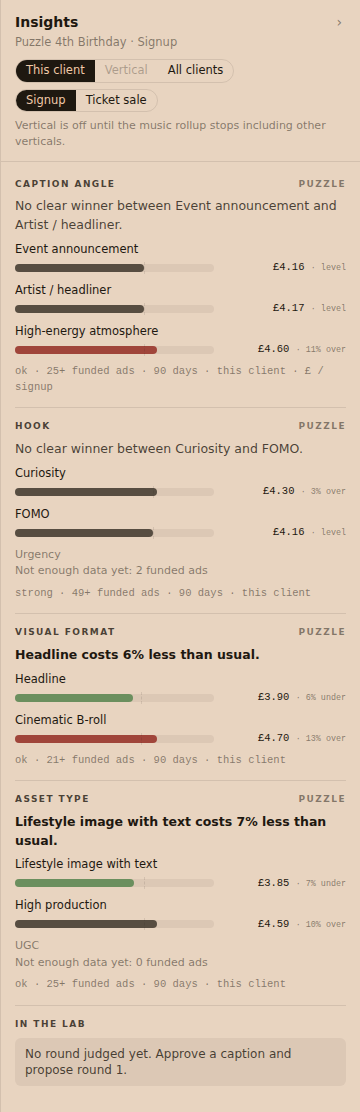
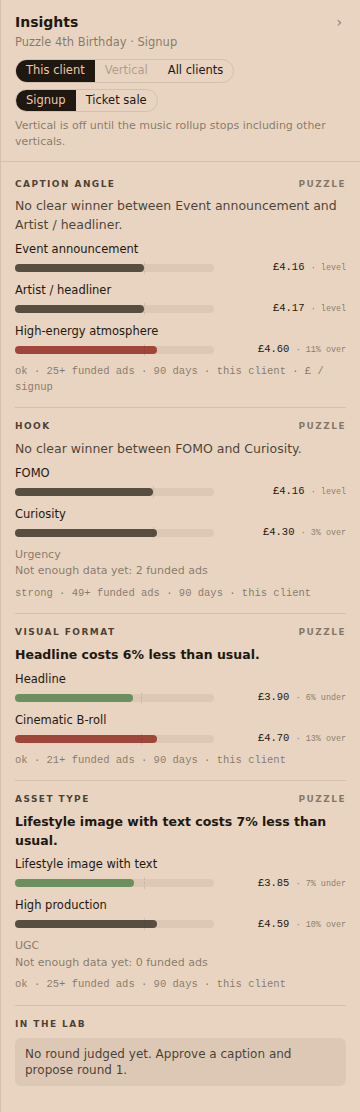
Design verdict item 4: Curiosity's IR3 stand-in index agrees with its cpr
Issue 1's IR3 table printed Curiosity at shrunk 0.98 against a cpr 3%
over baseline, and the fixture copied it, so R13 drew Curiosity above
FOMO: cheapest-first inverted on screen. A stand-in index must agree
with its own cpr, so the raw 4.30 ÷ 4.16 (1.03) stands in and FOMO draws
first again. IR3-1280 and IR6-1280 return to main's baselines; IR8
re-shot with its hook block FOMO-first. README IR sources row says why;
rail-sources.test.ts keeps guarding it. The gender thin threshold (under
1,000 impressions) gains its test.

Changed region(s): [[0.4889, 0.3975, 0.8861, 0.4892], [0.0611, 0.4586, 0.1833, 0.4892], [0.0611, 0.3975, 0.1833, 0.4281]]

diff --git a/lib/insights-rail/__tests__/model.test.ts b/lib/insights-rail/__tests__/model.test.ts
@@ -59,7 +59,7 @@ const IR3: TagRow[] = [
   row("asset_type", "high_production", 4.59, 4.16, 1.07, "ok", 30),
   row("asset_type", "ugc", null, 4.16, null, "thin", 0),
   row("hook_tactic", "fomo", 4.16, 4.16, 1.0, "strong", 49),
-  row("hook_tactic", "curiosity", 4.3, 4.16, 0.98, "strong", 52),
+  row("hook_tactic", "curiosity", 4.3, 4.16, 1.03, "strong", 52),
   row("hook_tactic", "urgency", 5.1, 4.16, 1.0, "thin", 2),
 ];
 
@@ -112,9 +112,9 @@ describe("insights rail model", () => {
     ]);
     assert.equal(angle!.confidence, "ok · 25+ funded ads · 90 days · this client · £ / signup");
     assert.equal(angle!.action, null);
-    // R13: rows sort by stored shrunk index, so Curiosity (0.98) draws before FOMO (1.0).
-    assert.equal(hook!.result?.text, "No clear winner between Curiosity and FOMO.");
-    assert.deepEqual(hook!.bars.map((bar) => bar.label), ["Curiosity", "FOMO"]);
+    // R13: rows sort by stored shrunk index; FOMO (1.0) draws before Curiosity (1.03, the raw stand-in).
+    assert.equal(hook!.result?.text, "No clear winner between FOMO and Curiosity.");
+    assert.deepEqual(hook!.bars.map((bar) => bar.label), ["FOMO", "Curiosity"]);
     assert.deepEqual(hook!.thin, [{ key: "urgency", label: "Urgency", fundedAds: 2 }]);
     assert.equal(hook!.confidence, "strong · 49+ funded ads · 90 days · this client");
     assert.equal(visual!.result?.text, "Headline costs 6% less than usual.");
@@ -332,6 +332,20 @@ describe("insights rail model", () => {
     assert.equal(cheap.result?.text, "18–24 costs 33% less than usual.");
     assert.deepEqual(cheap.bars.map((bar) => [bar.note, bar.tone]), [["33% under", "olive"], ["33% over", "brick"]]);
     assert.equal(buildTikTokSections([], "Puzzle")[0]!.empty, "Not enough data yet: no TikTok breakdowns for Puzzle in the last 90 days.");
+    // A gender row under 1,000 impressions is thin; the blended figure still counts it.
+    const thinGender = buildTikTokSections([
+      { dimension: "gender", value: "FEMALE", spend: 50, clicks: 100, impressions: 20000, views2s: 2000 },
+      { dimension: "gender", value: "MALE", spend: 2, clicks: 3, impressions: 999, views2s: 150 },
+    ], "Puzzle")[1]!;
+    assert.deepEqual(thinGender.bars.map((bar) => bar.label), ["Women"]);
+    assert.deepEqual(thinGender.thin, [{ key: "MALE", label: "Men", fundedAds: 999, line: "Not enough data yet: 999 impressions" }]);
+    assert.equal(thinGender.confidence, "ok · 2-s views ÷ impressions · 20,999 impressions · 90 days · Puzzle · TikTok");
+    const okGender = buildTikTokSections([
+      { dimension: "gender", value: "FEMALE", spend: 50, clicks: 100, impressions: 20000, views2s: 2000 },
+      { dimension: "gender", value: "MALE", spend: 2, clicks: 3, impressions: 1000, views2s: 150 },
+    ], "Puzzle")[1]!;
+    assert.deepEqual(okGender.bars.map((bar) => bar.label), ["Men", "Women"]);
+    assert.equal(okGender.thin.length, 0);
     assert.equal(tiktokAgeLabel("AGE_55_100"), "55–100");
     assert.equal(tiktokAgeLabel("AGE_55+"), "55+");
     assert.equal(tiktokGenderLabel("FEMALE"), "Women");

diff --git a/lib/plan/__tests__/rail-frames.test.ts b/lib/plan/__tests__/rail-frames.test.ts
@@ -109,8 +109,9 @@ describe("Insights rail frame catalog (IR)", () => {
     assert.equal(angle!.scopeLabel, "Puzzle");
     assert.equal(angle!.fallback, null);
     assert.equal(angle!.result?.text, "No clear winner between Event announcement and Artist / headliner.");
-    // R13 sorts by stored shrunk index, so Curiosity (0.98) draws before FOMO (1.0).
-    assert.equal(hook!.result?.text, "No clear winner between Curiosity and FOMO.");
+    // R13 sorts by stored shrunk index; Curiosity's stand-in is the raw 1.03, so FOMO (1.0) draws first.
+    assert.equal(hook!.result?.text, "No clear winner between FOMO and Curiosity.");
+    assert.deepEqual(hook!.bars.map((bar) => [bar.label, bar.note]), [["FOMO", "level"], ["Curiosity", "3% over"]]);
     assert.deepEqual(hook!.thin.map((row) => [row.label, row.fundedAds]), [["Urgency", 2]]);
     assert.equal(visual!.result?.text, "Headline costs 6% less than usual.");
     assert.equal(data.sections.some((section) => section.action), false);

diff --git a/scripts/plan-frames/rail-fixtures.ts b/scripts/plan-frames/rail-fixtures.ts
@@ -63,7 +63,8 @@ export const PUZZLE_REGISTRATION: TagRow[] = [
   row("messaging_angle", "artist_headliner", 4.17, IR3_BASELINE, 1.0, "ok", 25),
   row("messaging_angle", "high_energy_atmosphere", 4.6, IR3_BASELINE, 1.11, "ok", 25),
   row("hook_tactic", "fomo", 4.16, IR3_BASELINE, 1.0, "strong", 49),
-  row("hook_tactic", "curiosity", 4.3, IR3_BASELINE, 0.98, "strong", 49),
+  // Issue 1 printed 0.98 against a cpr 3% over baseline; a stand-in index must agree with its cpr (#1110 verdict item 4), so the raw 4.30 ÷ 4.16 stands in.
+  row("hook_tactic", "curiosity", 4.3, IR3_BASELINE, 1.03, "strong", 49),
   row("hook_tactic", "urgency", null, IR3_BASELINE, null, "thin", 2),
   row("visual_format", "headline", 3.9, IR3_BASELINE, 0.94, "ok", 21),
   row("visual_format", "cinematic_b_roll", 4.7, IR3_BASELINE, 1.11, "ok", 21),

diff --git a/scripts/plan-frames/README.md b/scripts/plan-frames/README.md
@@ -99,7 +99,7 @@ the same figures. Launches off, no Supabase, no Meta.
 | IR5 | 1280, 393 | Audience builder · Puzzle · Signup; Vertical · music selected | Context line "Audience builder · Puzzle · Signup"; the Vertical toggle is on and reads "Vertical · music" (cluster verticals are the clusters' own column). Interest clusters · "music · signup": "Disc Genre costs 41% less than its clients' usual." Rows with Add cluster: Disc Genre "£1.06 / signup · 41% under · 8 funded ad sets · 2 clients · ok", Music festivals "£0.98 / signup · 33% under · 3 funded ad sets · 2 clients · ok", Latest iPhone users "£2.00 / signup · 8% under · 3 funded ad sets · 1 client · ok", Electronic music "£2.13 / signup · 2% under · 4 funded ad sets · 1 client · ok"; thin line "Melodic Techno, Fashion, Streaming, Streaming — full" / "Not enough data yet: 1–2 funded ad sets each"; "28 clusters not tried yet · show · picked 7 times so far"; 🔒 line. Lookalikes and retargeting · Puzzle: "Not measured yet. Appears once results are stored per audience (source, lookalike range, cost per result), from the next nightly run after that job ships." The page shows Disc Genre with the chip "added from Insights". At 393 the sheet; "picked 7 times" is hidden |
 | IR6 | 1280 | Rail only · CL6 Lab judged | "In the Lab · round 1 · judged" first, then the four tag sections as IR3: "Lineup captions beat POV by 33% on Off Pixel Fixtures." Lineup £0.50 · 40 signups (olive), POV £0.75 · 20 signups (brick); "Ada North #1 × Lineup" Winner; "round 1 · 60 signups · £35 spent"; Use Lineup |
 | IR7 | 393 | Event page, collapsed | An "Insights ‹" pill in the header row beside the page's actions; no floating button; Approve visible |
-| IR8 | 1280, 393 | MML canvas (plan fixture A1), TikTok drawer context (?drawer=tt) | Context line "New TikTok campaign · Puzzle · Signup". Who clicks on TikTok · "Puzzle · 90 days": "No clear winner between 18–24 and 25–34." "18–24 · 9.3% watch past 2 s" £0.49 / click · level, "25–34 · 10.0% watch past 2 s" £0.50 / click · level, "35–44 / Not enough data yet: £7 spent, 13 clicks"; "ok · £109 spent · 218 clicks · 90 days · Puzzle · TikTok". Who watches: "Men watch past 2 s 8% more than usual." Men 10.5% · 8% over (olive), Women 9.2% · 6% under (brick); "ok · 2-s views ÷ impressions · 55,111 impressions · 90 days · Puzzle · TikTok". Then the ochre line "TikTok ads aren't tagged yet. These angles, hooks and formats come from Puzzle's Meta ads; the costs are Meta costs." and Caption angle, Hook, Visual format with the kicker "from Meta ads" and confidence lines ending "· Puzzle · Meta" (angle also "· £ / signup"), as IR3 draws them: no clear winner, "No clear winner between Curiosity and FOMO.", "Headline costs 6% less than usual." No Asset type, no interest category, no region, no Use action: exactly five sections. The TikTok drawer itself is not in the frame: it loads its draft from the database. At 393 the sheet |
+| IR8 | 1280, 393 | MML canvas (plan fixture A1), TikTok drawer context (?drawer=tt) | Context line "New TikTok campaign · Puzzle · Signup". Who clicks on TikTok · "Puzzle · 90 days": "No clear winner between 18–24 and 25–34." "18–24 · 9.3% watch past 2 s" £0.49 / click · level, "25–34 · 10.0% watch past 2 s" £0.50 / click · level, "35–44 / Not enough data yet: £7 spent, 13 clicks"; "ok · £109 spent · 218 clicks · 90 days · Puzzle · TikTok". Who watches: "Men watch past 2 s 8% more than usual." Men 10.5% · 8% over (olive), Women 9.2% · 6% under (brick); "ok · 2-s views ÷ impressions · 55,111 impressions · 90 days · Puzzle · TikTok". Then the ochre line "TikTok ads aren't tagged yet. These angles, hooks and formats come from Puzzle's Meta ads; the costs are Meta costs." and Caption angle, Hook, Visual format with the kicker "from Meta ads" and confidence lines ending "· Puzzle · Meta" (angle also "· £ / signup"), as IR3 draws them: no clear winner, "No clear winner between FOMO and Curiosity.", "Headline costs 6% less than usual." No Asset type, no interest category, no region, no Use action: exactly five sections. The TikTok drawer itself is not in the frame: it loads its draft from the database. At 393 the sheet |
 
 ## IR sources
 
@@ -130,7 +130,7 @@ record's "+n more", never drawn.
 | messaging_angle | artist_headliner | 4.17 | 4.16 | 1.0 | ok | 25 | R3; funded min |
 | messaging_angle | high_energy_atmosphere | 4.6 | 4.16 | 1.11 | ok | 25 | R3; funded min |
 | hook_tactic | fomo | 4.16 | 4.16 | 1.0 | strong | 49 | R3; funded min |
-| hook_tactic | curiosity | 4.3 | 4.16 | 0.98 | strong | 49 | R3; funded min |
+| hook_tactic | curiosity | 4.3 | 4.16 | 1.03 | strong | 49 | R3 cpr; funded min; shrunk is the raw 4.30 ÷ 4.16 stand-in: issue 1 printed 0.98 against a cpr 3% over baseline, and a stand-in index must agree with its own cpr (#1110 verdict item 4), so FOMO (1.0) draws first |
 | hook_tactic | urgency | null | 4.16 | null | thin | 2 | R3 (thin, 2 funded) |
 | visual_format | headline | 3.9 | 4.16 | 0.94 | ok | 21 | R3; funded min |
 | visual_format | cinematic_b_roll | 4.7 | 4.16 | 1.11 | ok | 21 | R3; funded min |
@@ -175,8 +175,7 @@ asset 10.
 
 The record's figures differ from the model's in one place: IR3's and IR4's
 asset type reads 7% under (3.85 ÷ 4.16 = 0.9255), where the record rounded
-to 8%. The record allows ±1 point. R13 also orders IR3's and IR6's hook
-bars Curiosity (0.98) before FOMO (1.0); issue 1 drew FOMO first.
+to 8%. The record allows ±1 point.
 
 ### Cluster rows (IR5)
 
